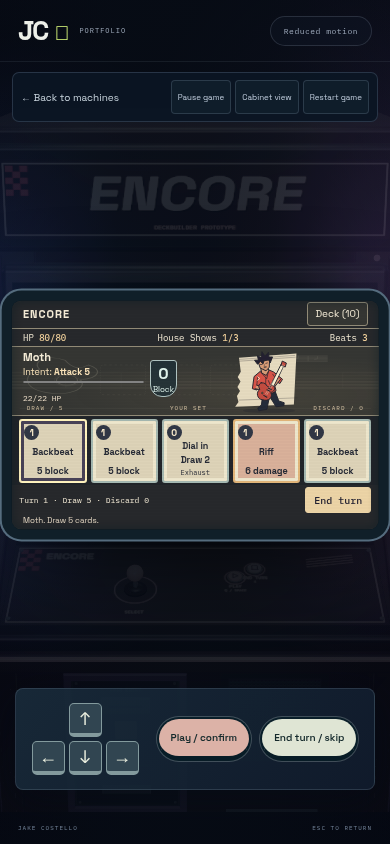
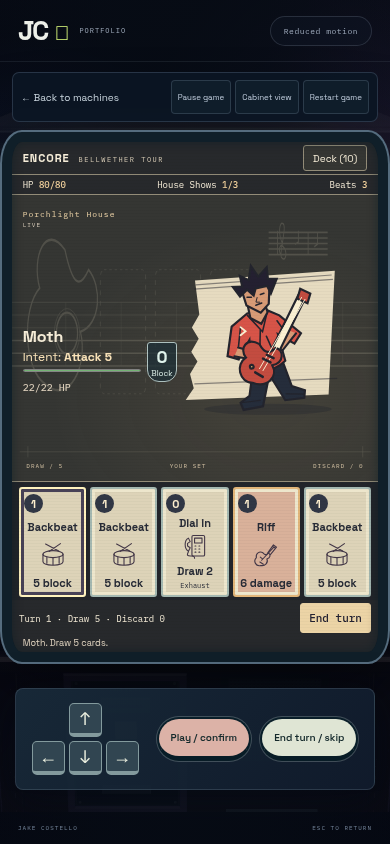
Give expanded Encore boards room on portrait phones and tablets

diff --git a/src/arcade/games/deckbuilder.css b/src/arcade/games/deckbuilder.css
@@ -1159,3 +1159,48 @@
     font-size: 10px;
   }
 }
+
+/* Expanded card play can use portrait space; the physical CRT keeps its geometry. */
+@media (max-width: 900px) and (min-height: 600px) and (orientation: portrait) {
+  .arcade-page[data-game='deckbuilder']:is(.is-expanded, .is-fallback.is-playing)
+    .arcade-live-screen {
+    left: 3% !important;
+    top: 80px !important;
+    bottom: 160px;
+    width: 94% !important;
+    height: auto !important;
+    aspect-ratio: auto;
+    transform: none !important;
+  }
+}
+@container (max-width: 550px) and (min-height: 400px) {
+  .db-opponent h2 {
+    font-size: 16px;
+  }
+  .db-intent {
+    font-size: 12px;
+  }
+  .db-enemy-stats {
+    font-size: 10px;
+  }
+  .db-game .db-card {
+    min-height: 110px;
+  }
+  .db-card-art {
+    display: block;
+    width: 28px;
+    height: 28px;
+  }
+  .db-card > b,
+  .db-card > strong {
+    font-size: 11px;
+  }
+  .db-card-cost {
+    width: 19px;
+    height: 19px;
+    font-size: 11px;
+  }
+  .db-turnbar {
+    font-size: 9px;
+  }
+}

diff --git a/tests/browser/deckbuilder.spec.ts b/tests/browser/deckbuilder.spec.ts
@@ -86,6 +86,9 @@ test('Encore cabinet plays cards, pauses, accepts physical controls and resets w
   await expect(game).toHaveAttribute('data-turn', '2');
   await page.screenshot({ path: info.outputPath('encore-combat.png') });
   await page.getByRole('button', { name: 'Expand screen', exact: true }).click();
+  const viewport = page.viewportSize()!;
+  if (viewport.width <= 900 && viewport.height >= 600 && viewport.height > viewport.width)
+    expect((await game.boundingBox())!.height).toBeGreaterThan(400);
   await expect(game).toHaveAttribute('data-turn', '2');
   await game.getByRole('button', { name: /Deck \(/ }).click();
   await expect(game.getByRole('heading', { name: 'Current deck' })).toBeVisible();

diff --git a/docs/encore-bellwether/README.md b/docs/encore-bellwether/README.md
@@ -13,7 +13,9 @@ worker, reduced motion. Desktop 1440×1000, tablet 768×1024, mobile 390×844.
 
 The map offers real alternate opponents at six stops, then converges at bosses.
 Compact view scrolls details while keeping Start battle outside the scroller;
-Expand screen shows the larger map. Capture probes verified no horizontal game
+Expand screen shows the larger map. Portrait expanded/fallback play uses the
+available height for character art and visible card illustrations, while the
+physical CRT keeps its original geometry. Capture probes verified no horizontal game
 overflow and visible End turn at all three viewports.
 
 ## Board and district treatments
@@ -36,7 +38,7 @@ claim of sixteen hand-painted or frame-animated sprites.
 ## Checkpoint evidence
 
 - 124 unit tests and production build pass; the existing large renderer warning remains.
-- The desktop/mobile Encore suite passes twelve tests, including full runs,
+- The final desktop/mobile Encore suite passes twelve tests, including full runs,
   alternate show selection, deck-inspector focus/choice retention, physical
   controls, pause, reduced motion, lazy import and error recovery.
 - Responsive capture checks pass desktop/tablet/mobile; the contact sheet passes
@@ -44,6 +46,8 @@ claim of sixteen hand-painted or frame-animated sprites.
   failed on a CommonJS interop import; the import was corrected and rerun.
 - Local backend discovery failed because `networkx` is absent from this frontend
   environment. No backend dependency/service setup was added; backend CI is the gate.
+- The combined local arcade/Encore suite passed 41 cases with 7 expected skips.
+  The final Encore rerun also passed twelve cases after the portrait/map-copy refinements.
 - Full frozen arcade/site CI and deployment status are recorded in the PR and
   workspace report; this checkpoint alone does not claim publication.
 

diff --git a/docs/ENCORE-BELLWETHER.md b/docs/ENCORE-BELLWETHER.md
@@ -16,7 +16,9 @@ separate final boss are retained. Routes replay from the seed **and choices**.
 
 The street map shows the current district, with a four-part tour indicator above
 it when space permits. Compact cabinet view keeps Start battle outside the
-scrolling map details; Expand screen provides the full map and seed controls.
+scrolling map details; Expand screen provides the larger map and seed controls. On portrait phones
+and tablets, expanded/fallback play uses a taller board between the shell tools
+and physical controls, leaving the physical cabinet screen unchanged.
 Keyboard users can Tab to a building and Enter/Space to select it. Cabinet arrows
 select open shows, and Q/Space confirm; touch uses native building buttons.
 
